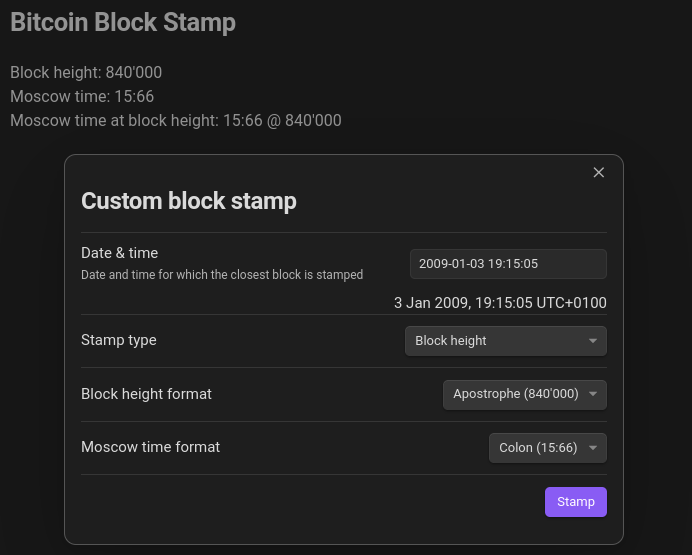
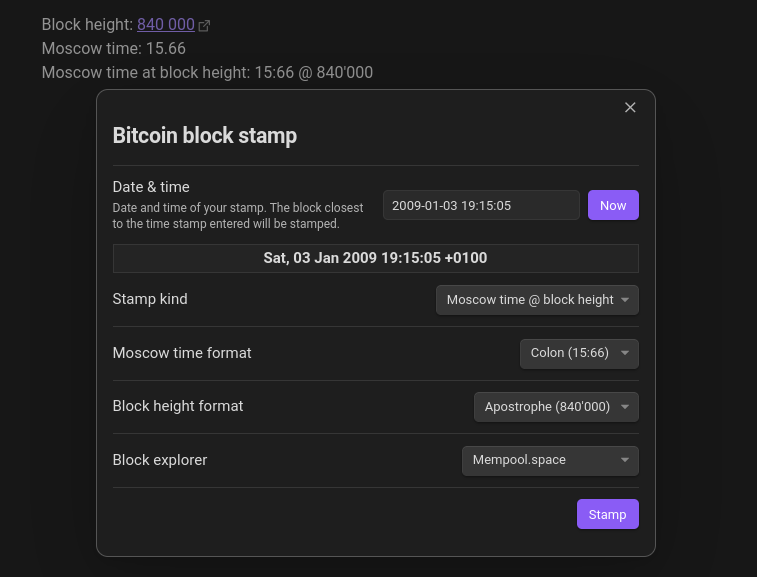
docs(readme): update demo image

diff --git a/README.md b/README.md
@@ -4,7 +4,7 @@
 
 Stamp your notes with the Bitcoin block height and Moscow time. Add the latest stamp or the stamp for any time in the past up to the Genesis block.
 
-<div align="center"> <!-- TODO: update demo image -->
+<div align="center">
   <img src="./docs/bbs-demo.png" alt="BBS Demo" width="88%">
 </div>
 
